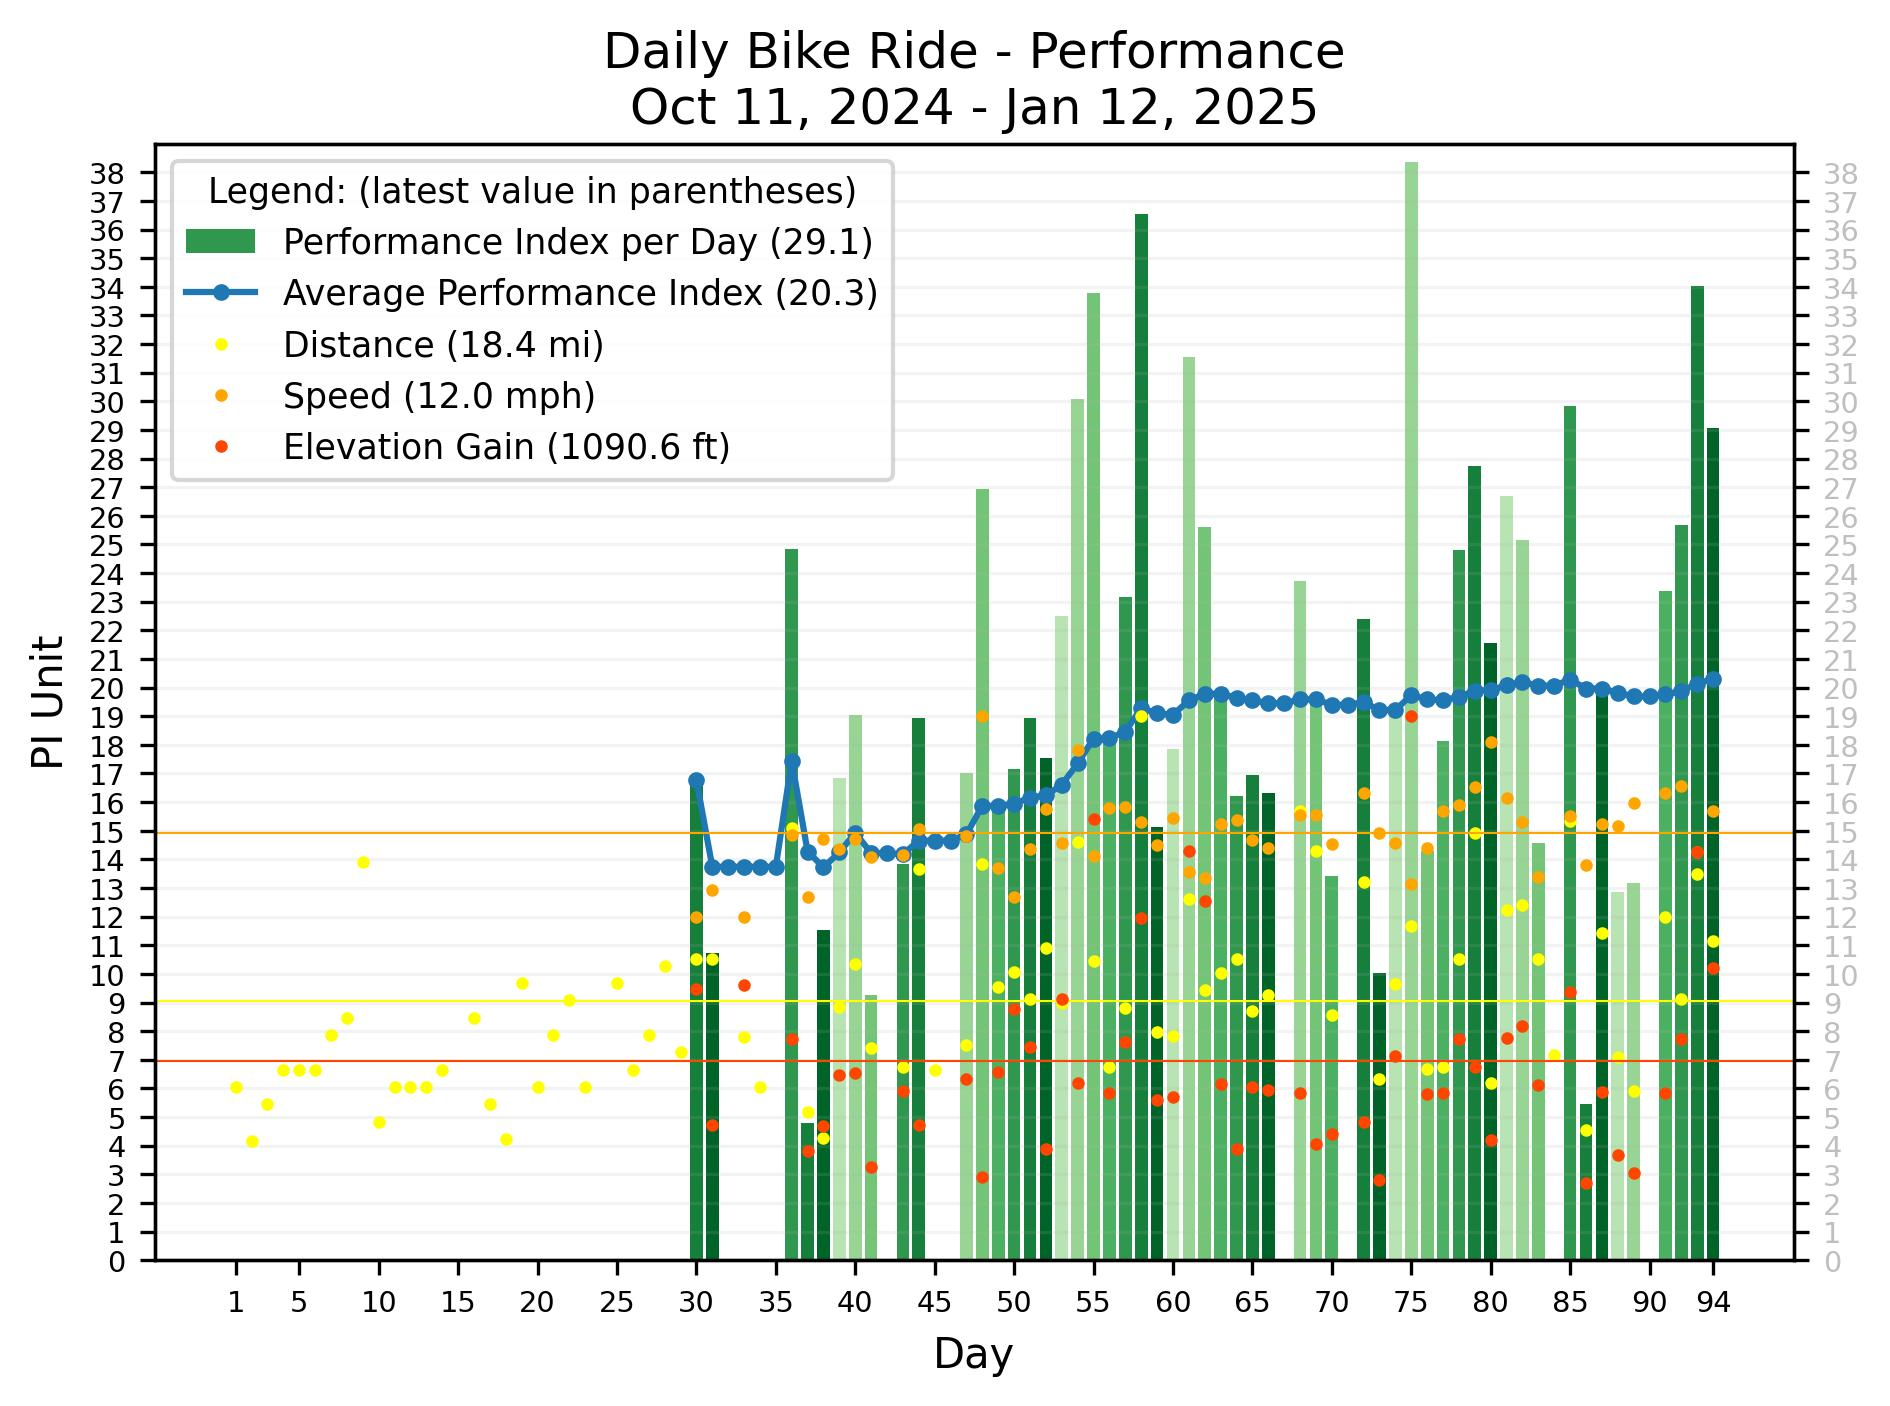
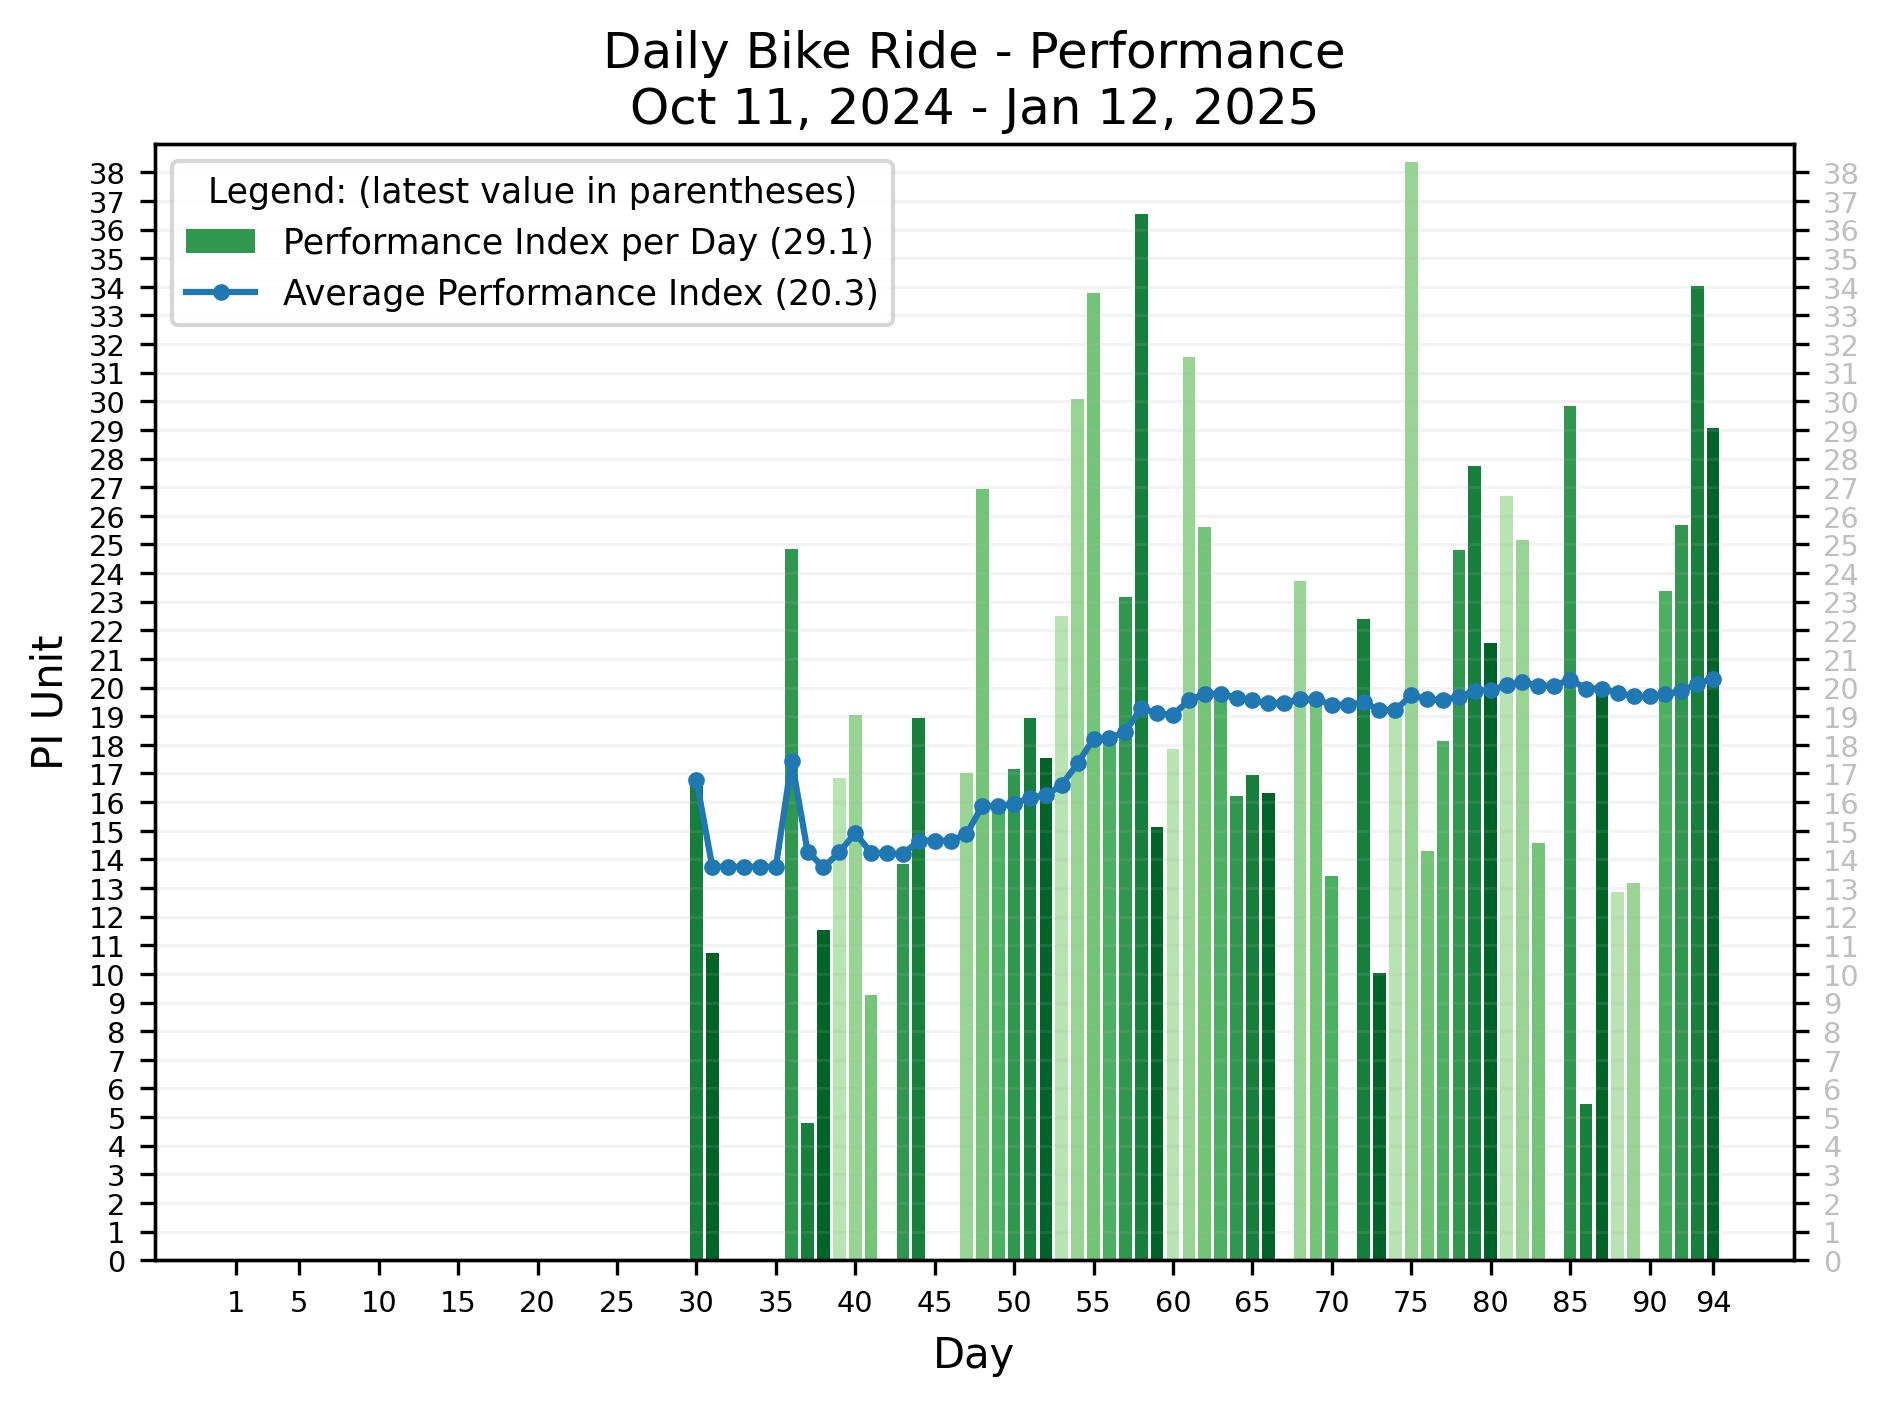
temporarily remove performance component details

diff --git a/src/biking/graph/performance.py b/src/biking/graph/performance.py
@@ -109,7 +109,7 @@ class PerformanceGraph(Graph):
         self.handles.append(line)
         self.labels.append(f"Average Performance Index ({avg_y[-1]:0.1f})")
 
-        component_range = int(max_value / 2)
-        self.component(ax1, x, component_range, "distance_per_day", "yellow", "Distance", "mi")
-        self.component(ax1, x, component_range, "speed_per_day", "orange", "Speed", "mph")
-        self.component(ax1, x, component_range, "elevation_gain_per_day", "orangered", "Elevation Gain", "ft")
+        # component_range = int(max_value / 2)
+        # self.component(ax1, x, component_range, "distance_per_day", "yellow", "Distance", "mi")
+        # self.component(ax1, x, component_range, "speed_per_day", "orange", "Speed", "mph")
+        # self.component(ax1, x, component_range, "elevation_gain_per_day", "orangered", "Elevation Gain", "ft")
